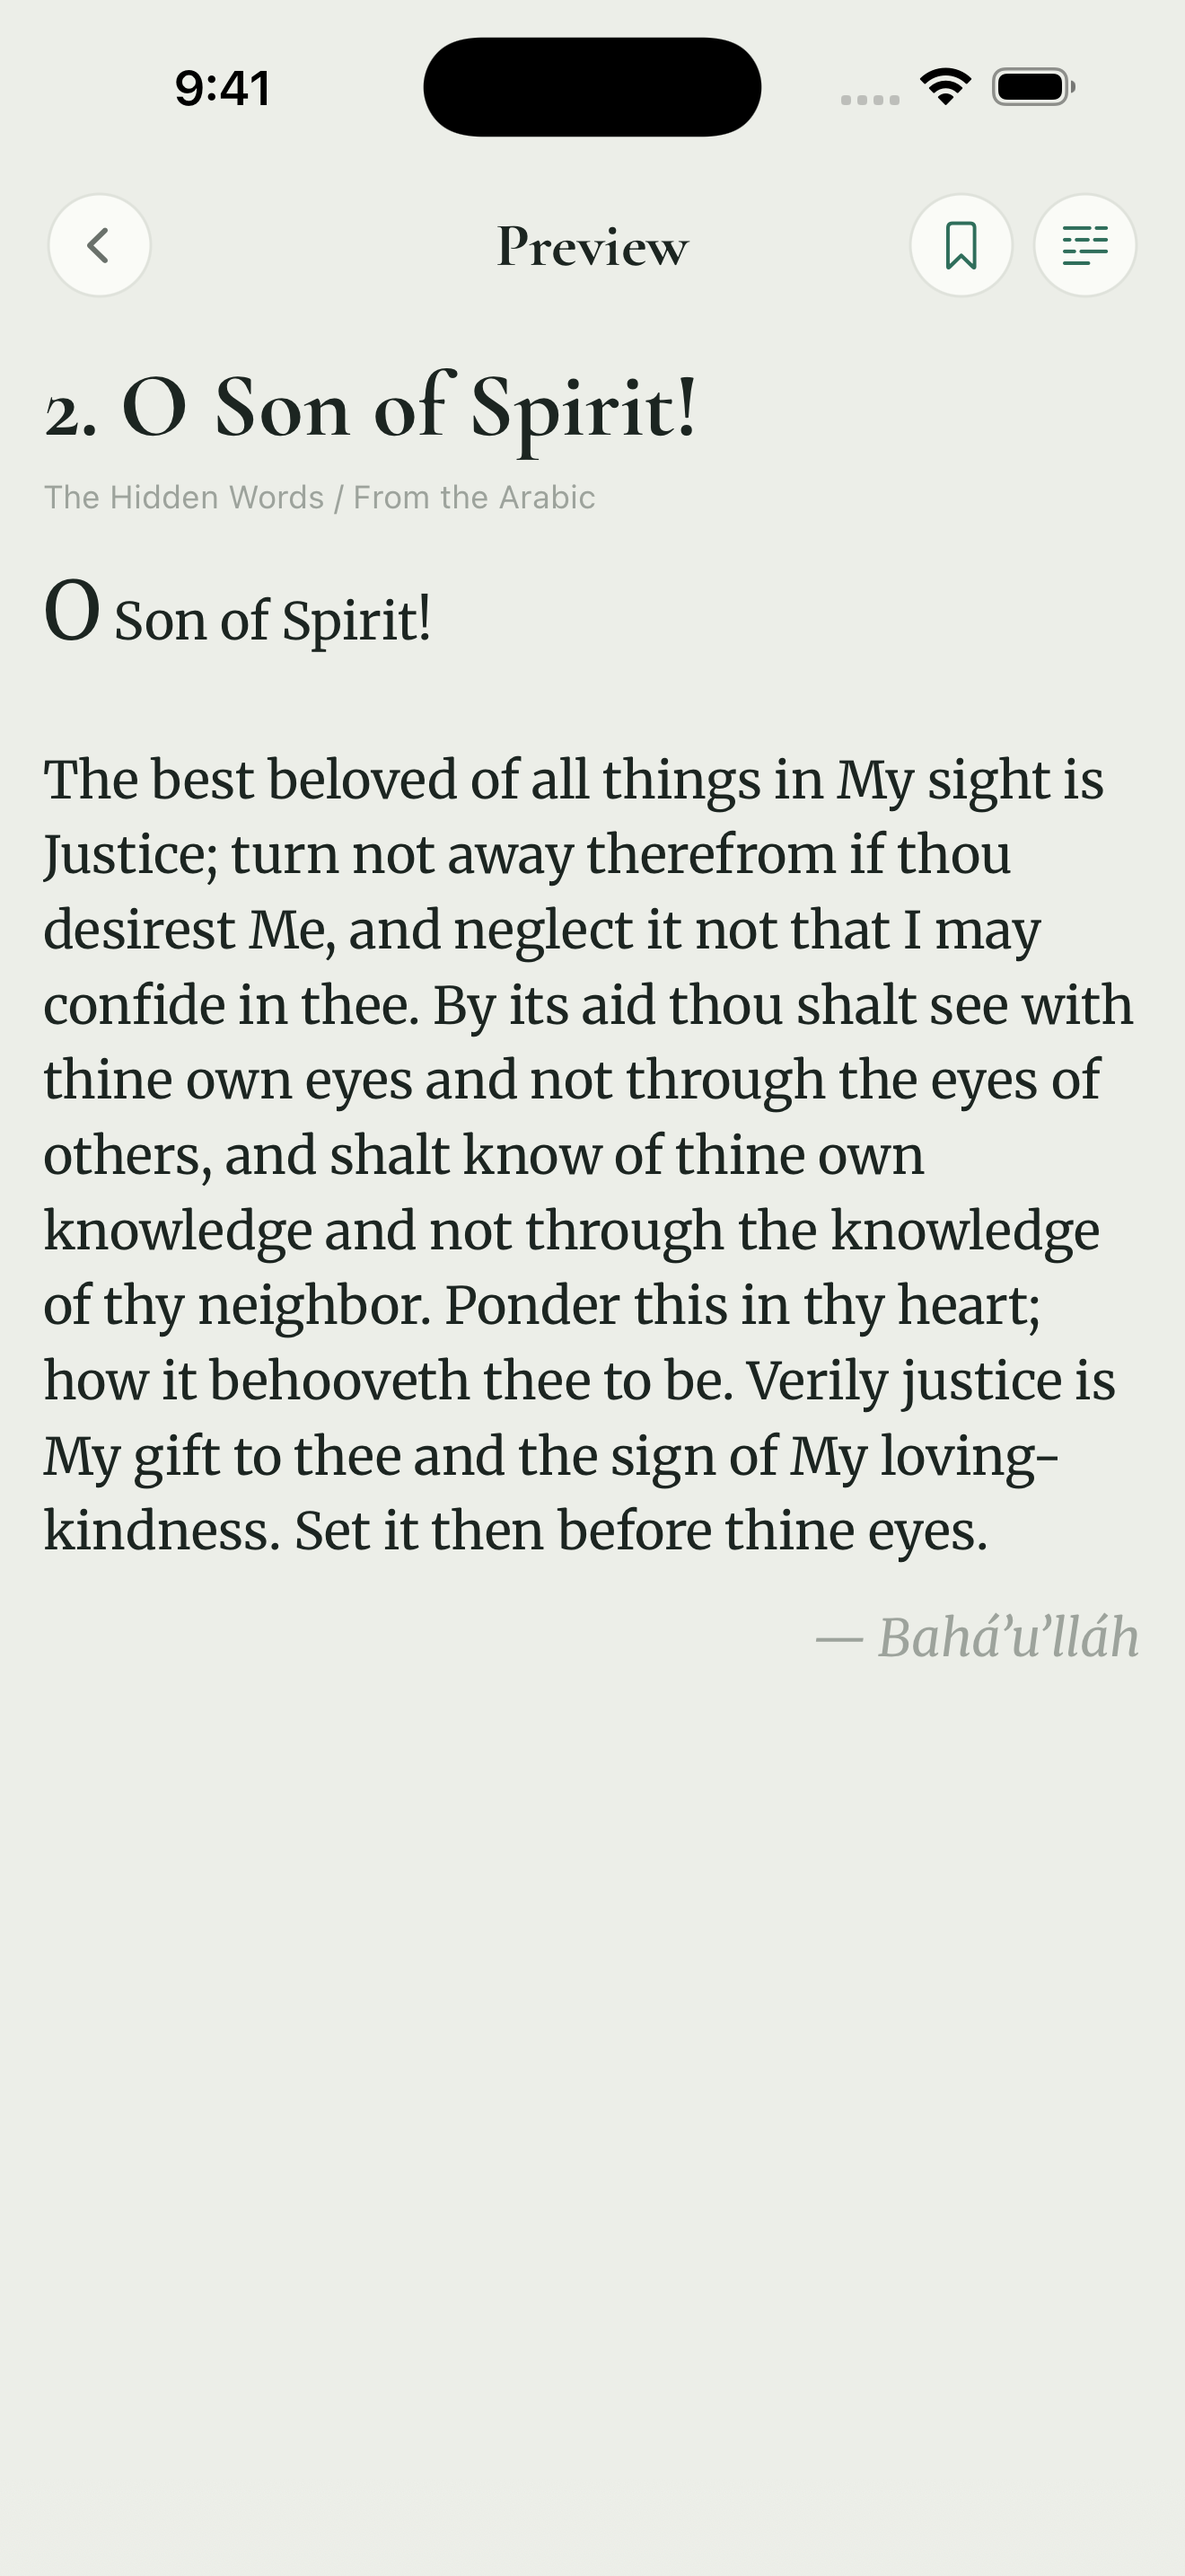
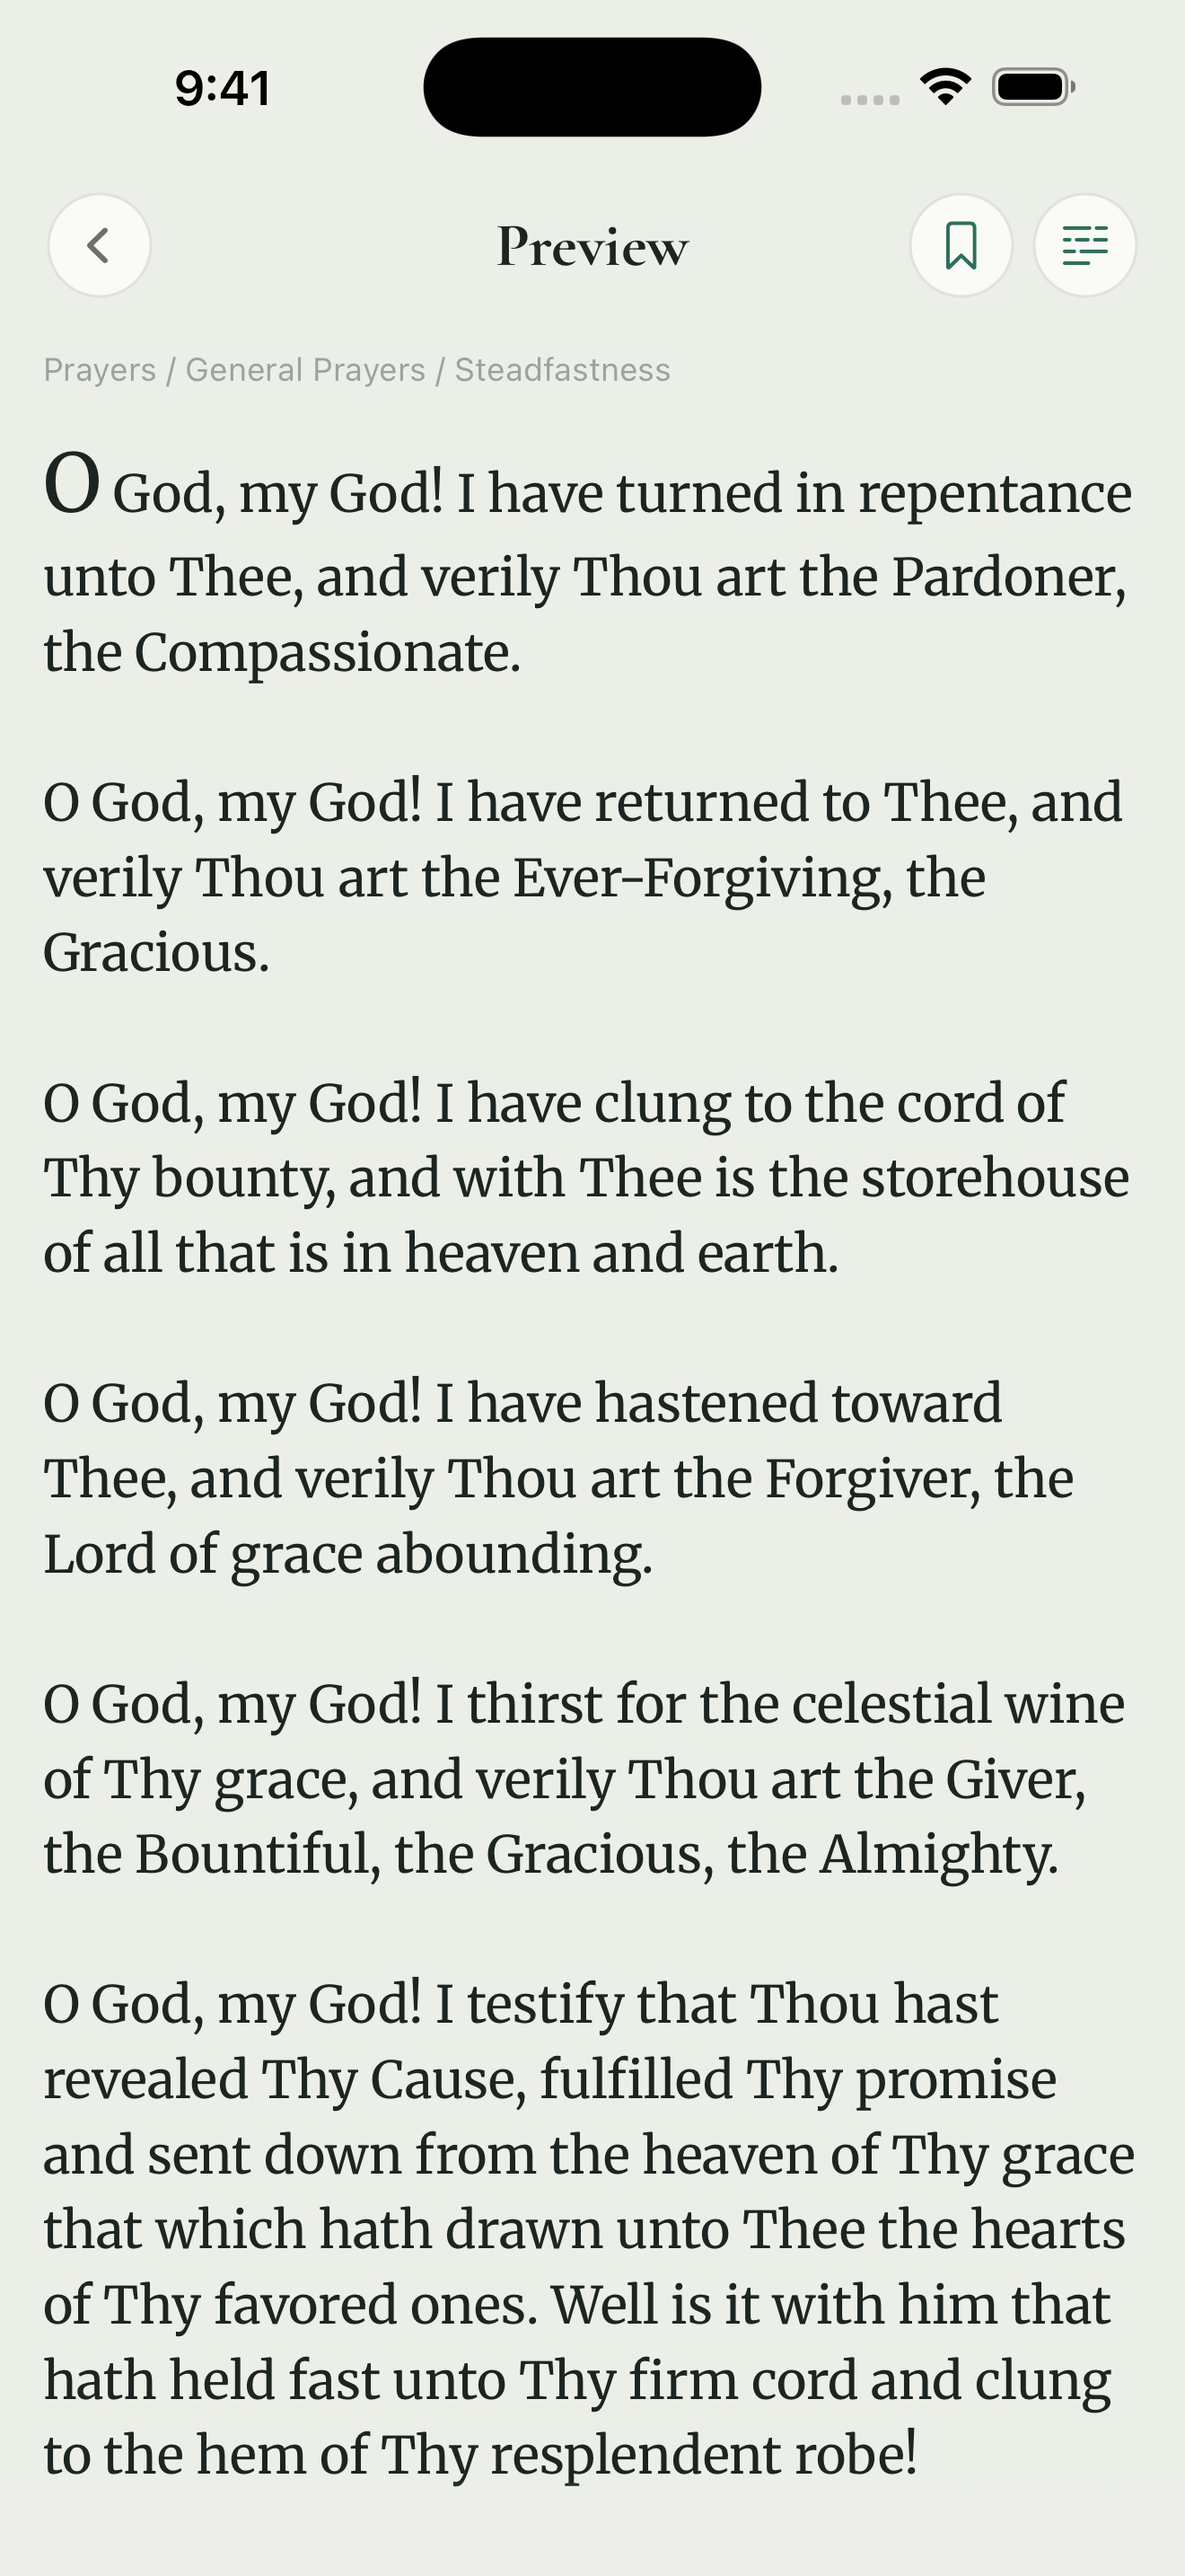
Make the store tiles read as one pass through the app
Five tiles in order: pick a prayer, read it, hide a word, hide more, know
it. Tiles 3 and 4 are the same chunk of the same passage at 24% and 33%
hidden, so the set shows the loop rather than describing it, and the
preview tile is now that same prayer instead of an unrelated Hidden Word.

Each tile names its own output, so upload order is the story order and the
raw captures keep the names they were shot under.

Changed region(s): [[0.0311, 0.1241, 0.9629, 0.7448], [0.0311, 0.7758, 0.9629, 0.962]]

diff --git a/Design/StoreFrames/generate_store_frames.py b/Design/StoreFrames/generate_store_frames.py
@@ -55,23 +55,20 @@ IPAD = dict(size=(2064, 2752), folder="ipad-13", geometry=dict(
     radius=0.0520,
 ))
 
+# One pass through the app, in order: pick a prayer, read it, hide a word, hide more,
+# know it. Tiles 3 and 4 are deliberately the same chunk of the same passage at two
+# stages, so the sequence shows the thing getting harder instead of describing it.
 TILES = [
-    dict(source="1-library.png",
-         headline="See everything\nyou’re memorizing."),
-    dict(source="2-hide-words.png",
+    dict(name="1-choose.png", source="3-built-in-library.png",
+         headline="Start with any\nof 225 prayers."),
+    dict(name="2-read.png", source="4-preview.png",
+         headline="Read it\nthrough first."),
+    dict(name="3-hide.png", source="2-hide-words.png",
          headline="Tap a word\nto hide it."),
-    dict(source="3-built-in-library.png",
-         headline="225 prayers,\nbuilt in."),
-    dict(source="4-preview.png",
-         headline="Read a prayer\nbefore you start."),
-    dict(source="5-dark.png", theme="dark",
-         headline="Works in dark mode."),
-    dict(source="6-library-dark.png", theme="dark",
-         headline="Everything stays\non your iPhone."),
-    dict(source="7-hidden-words.png",
-         headline="All 153\nHidden Words."),
-    dict(source="8-achievements.png",
-         headline="Seven achievements\nto earn."),
+    dict(name="4-hide-more.png", source="9-hide-more.png",
+         headline="Hide more\neach time you return."),
+    dict(name="5-know.png", source="1-library.png",
+         headline="Until you know it\nby heart."),
 ]
 
 PAGE = """<!doctype html>
@@ -200,7 +197,7 @@ def rasterise(chrome, page, out, size):
 def main():
     parser = argparse.ArgumentParser()
     parser.add_argument("--device", choices=["iphone", "ipad", "both"], default="iphone")
-    parser.add_argument("--only", help="substring of a source filename")
+    parser.add_argument("--only", help="substring of a tile's name or source filename")
     parser.add_argument("--html-only", action="store_true")
     args = parser.parse_args()
 
@@ -212,16 +209,16 @@ def main():
         out_dir = SHOTS / f"{device['folder']}-framed"
         out_dir.mkdir(parents=True, exist_ok=True)
         for tile in TILES:
-            if args.only and args.only not in tile["source"]:
+            if args.only and args.only not in tile["name"] + tile["source"]:
                 continue
             if not (SHOTS / device["folder"] / tile["source"]).exists():
                 continue
-            page = work / f"{device['folder']}-{tile['source']}.html"
+            page = work / f"{device['folder']}-{tile['name']}.html"
             page.write_text(build_page(tile, device))
             if args.html_only:
                 print("html:", page)
                 continue
-            out = out_dir / tile["source"]
+            out = out_dir / tile["name"]
             rasterise(chrome, page, out, device["size"])
             got = png_size(out)
             if got != tuple(device["size"]):

diff --git a/store-screenshots/tools/seed.py b/store-screenshots/tools/seed.py
@@ -60,10 +60,15 @@ def ramp(n, hi=1.0, lo=0.0, solid=0):
     return vals[:n]
 
 
+# the session hero, at two stages of the same chunk, so the store tiles can show
+# one passage getting harder rather than two unrelated screens
+HERO_FILLS = [1.0, 0.85, 0.0, 0.0] if os.environ.get("HERO_LATE") else [1.0, 0.4, 0.0, 0.0]
+
 # (needle, section, lines-per-chunk, per-chunk fill fractions)
 PICKS = [
-    # session hero: lands on the 40%-hidden chunk; HERO_GROUP=4 fills the wider iPad page
-    ("I have turned in repentance unto Thee", None,  HERO_GROUP, [1.0, 0.4, 0.0, 0.0]),
+    # session hero: lands on the last chunk with anything hidden, which HERO_FILLS keeps
+    # at index 1 either way; HERO_GROUP=3 fills the wider iPad page
+    ("I have turned in repentance unto Thee", None,  HERO_GROUP, HERO_FILLS),
     # library hero: 9 short chunks, a clean descending ramp
     ("Prayer for the Dead", "General Prayers",       1, ramp(9, hi=0.95, lo=0.0, solid=3)),
     ("I bear witness, O my God", "Obligatory Prayers", 1, [1.0, 1.0]),

diff --git a/store-screenshots/README.md b/store-screenshots/README.md
@@ -14,15 +14,26 @@ those are built from — reshoot here, then regenerate the tiles.
 Both simulators must be on the **iOS 26** runtime — the app's deployment target refuses
 to install on the 18.6 iPad Pro that carries the same name.
 
-Upload order matters — the first two are what people see in search results.
+These are the raw captures. What gets uploaded is the five tiles in `-framed/`, which
+read in order as one pass through the app — see `Design/StoreFrames/README.md`.
 
-1. `1-library.png` — library with the streak and per-passage progress ramps
-2. `2-hide-words.png` — a passage part-hidden, the core mechanic
-3. `3-built-in-library.png` — the Writings surface: search, My Writings, the bundled collections with counts
-4. `4-preview.png` — reading a Hidden Word before memorizing it
-5. `5-dark.png` — the same passage in dark
-6. `6-library-dark.png`, `7-hidden-words.png`, `8-achievements.png` — spares
-   (`8-achievements.png` needs the `ACHIEVEMENTS=1` seed — see below)
+| Raw capture | Becomes | Shows |
+|---|---|---|
+| `3-built-in-library.png` | `1-choose.png` | the Writings surface: search, My Writings, bundled collections with counts |
+| `4-preview.png` | `2-read.png` | the hero prayer read straight through, before any of it is hidden |
+| `2-hide-words.png` | `3-hide.png` | that prayer's second section, 24% hidden |
+| `9-hide-more.png` | `4-hide-more.png` | the *same* section at 33%, which is what makes the set a sequence rather than a gallery |
+| `1-library.png` | `5-know.png` | the library, streak and progress ramps, several passages finished |
+
+Spares, captured but not uploaded: `5-dark.png`, `6-library-dark.png`, `7-hidden-words.png`,
+`8-achievements.png` (that last one needs the `ACHIEVEMENTS=1` seed — see below).
+
+Two captures are stage-dependent and must be reshot as a pair if the hero passage changes:
+`2-hide-words.png` from the default seed and `9-hide-more.png` from `HERO_LATE=1`, which
+hides 85% of the same chunk instead of 40%. `HERO_LATE` deliberately leaves the later
+chunks empty so the session still lands on section 2 in both, keeping the two tiles
+identical but for the blanks. `4-preview.png` must be the same prayer as those two —
+reach it via Writings → Recently read, which the seed populates.
 
 If you drop the iPad build (`TARGETED_DEVICE_FAMILY = 1`), `ipad-13/` is no longer needed.
 

diff --git a/Design/StoreFrames/README.md b/Design/StoreFrames/README.md
@@ -15,9 +15,16 @@ to iterate on layout in a browser.
 
 ## What it makes
 
-A headline and the raw screenshot inside a bezelled phone that bleeds off the bottom edge.
-Input is `store-screenshots/<device>/`; a tile whose source is missing is skipped, which is
-why `--device ipad` produces three tiles and not eight.
+Five tiles that read in order as one pass through the app — pick a prayer, read it, hide a
+word, hide more, know it. Tiles 3 and 4 are the same chunk of the same passage at two
+stages, and tile 2 previews that same prayer, so the set demonstrates the loop instead of
+describing it. Reordering the list breaks that; the story is the point, not the coverage.
+
+Each tile names its own output file, so `TILES` order is the upload order and the raw
+capture it draws from can keep whatever name it was shot under. Input is
+`store-screenshots/<device>/`; a tile whose source is missing is skipped, which is why
+`--device ipad` produces three tiles — the iPad was never shot for the two session stages,
+and its three land as 1, 3 and 5, which is still the same story with beats missing.
 
 The headline is centred in the band above the phone rather than hung from a fixed top, so
 one-line and two-line headlines both sit right without a per-tile nudge. Line breaks are

diff --git a/store-listing.md b/store-listing.md
@@ -53,9 +53,11 @@ Verses is built around one belief: memorization isn't a test to pass, it's a way
 - Privacy: https://fayz676.github.io/bahai-memorization-game/privacy.html
 
 ## Screenshots
-Upload the `-framed/` folders — 8 × iPhone 6.9" (1320×2868) and 3 × iPad 13" (2064×2752),
-each a screenshot composed under a headline by `Design/StoreFrames/`. The bare folders in
-`store-screenshots/` are the raw captures those are built from, with regeneration instructions. The recitation screen is not among them; speech
+Upload the `-framed/` folders in filename order — 5 × iPhone 6.9" (1320×2868) and
+3 × iPad 13" (2064×2752), each a screenshot composed under a headline by
+`Design/StoreFrames/`. They read as one pass through the app: choose a prayer, read it,
+hide a word, hide more, know it. The bare folders in `store-screenshots/` are the raw
+captures those are built from, with regeneration instructions. The recitation screen is not among them; speech
 recognition can't reach its listening state in a simulator.
 
 ## Notes / decisions still open
